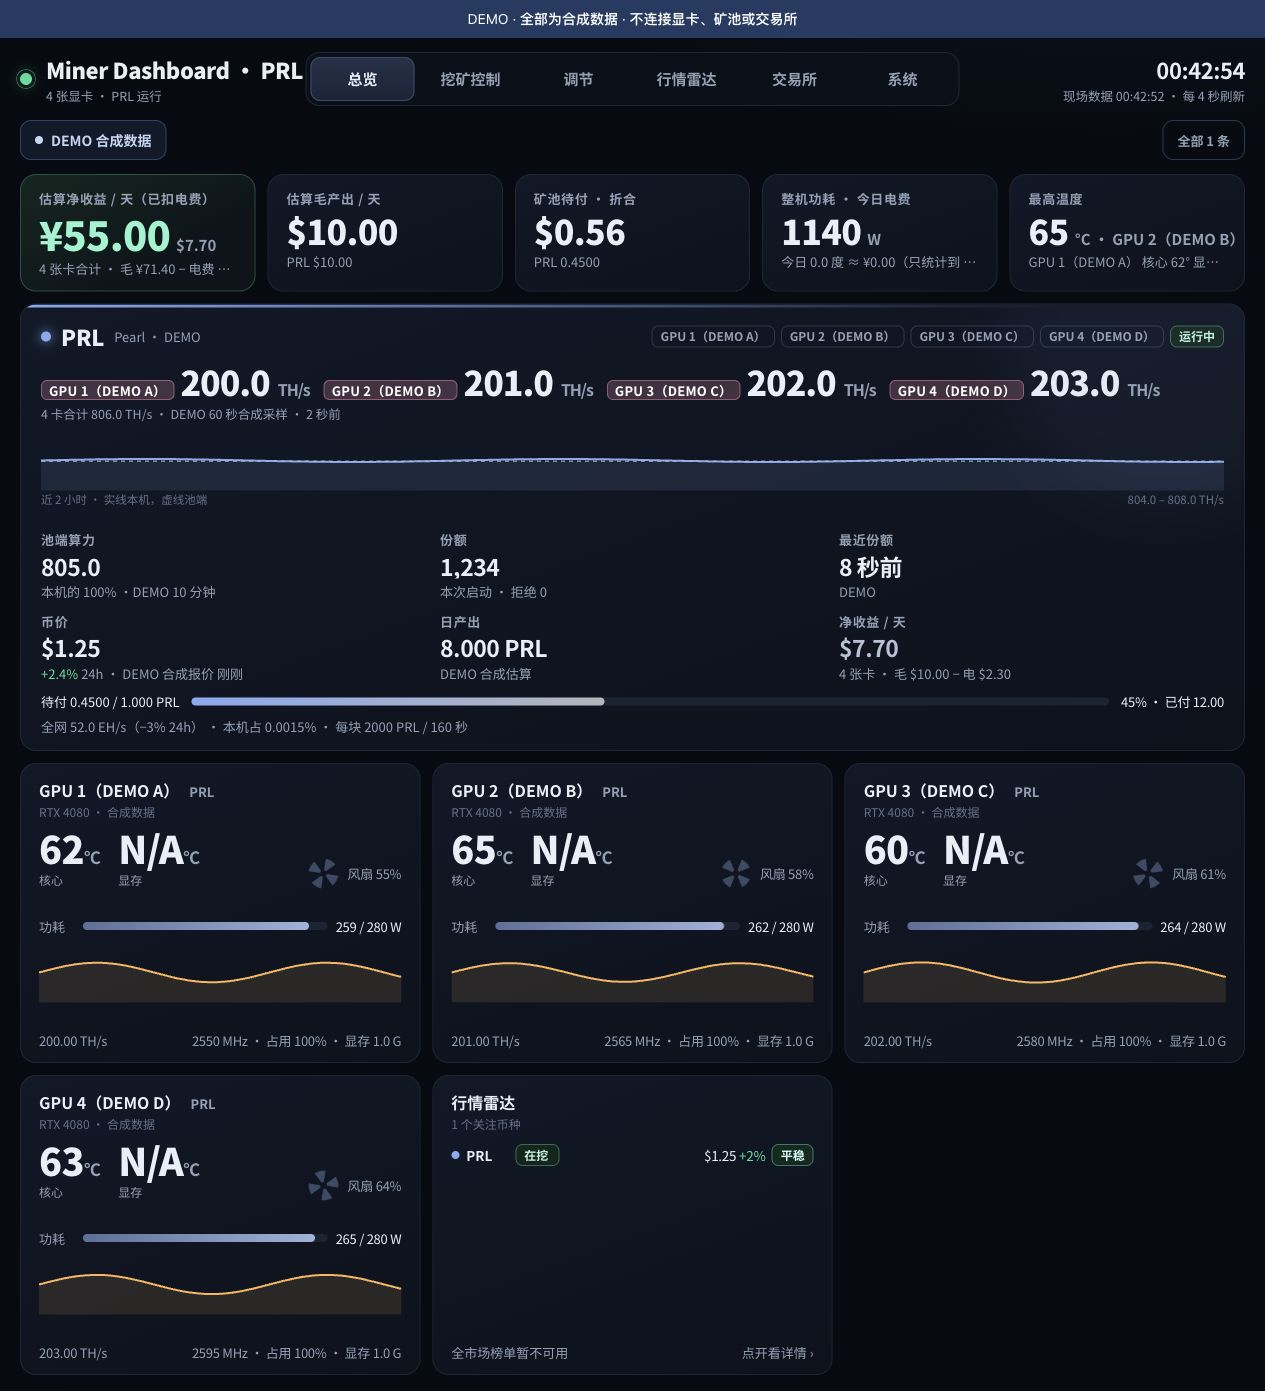
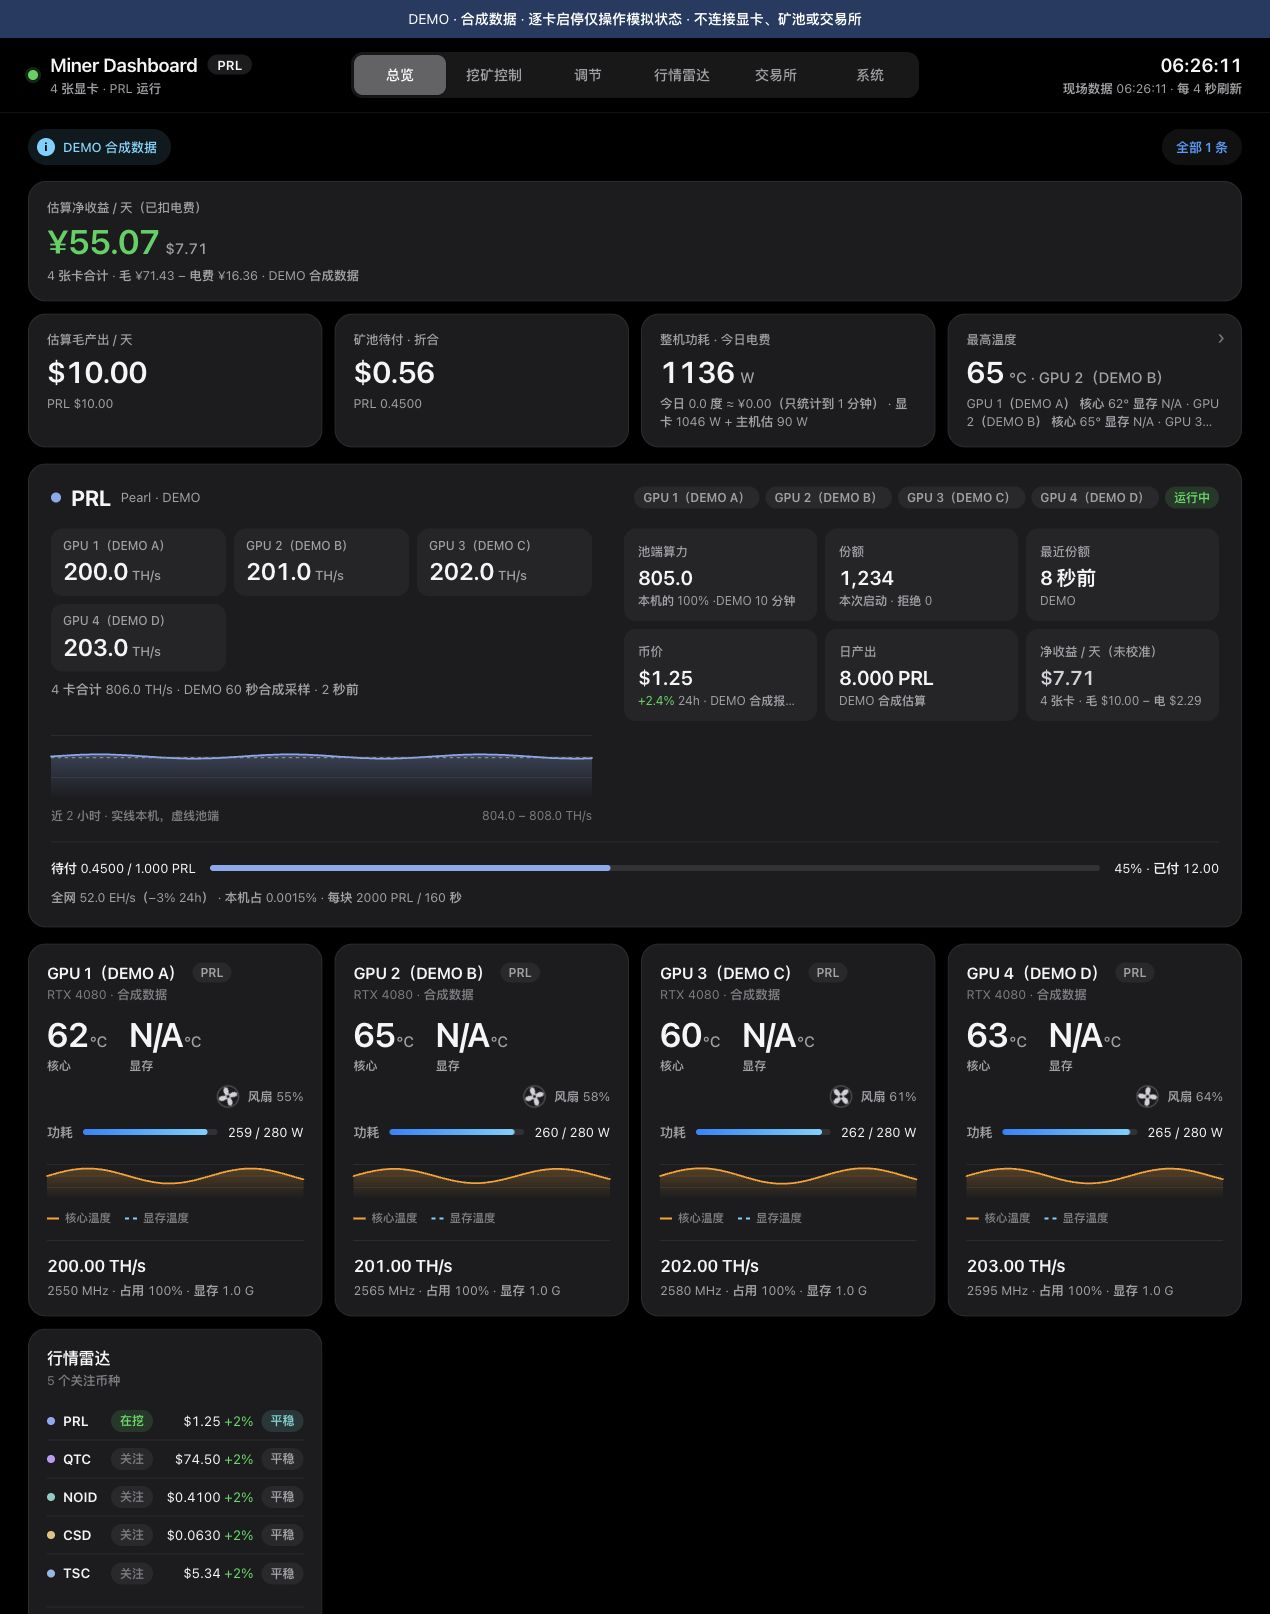
docs: refresh UI screenshots and setup guides

Changed region(s): [[0.0, 0.0, 1.0, 1.0]]

diff --git a/scripts/demo.py b/scripts/demo.py
@@ -2,7 +2,7 @@
 # SPDX-License-Identifier: GPL-3.0-only
 # Copyright (C) 2026 sergepoliakov
 """Synthetic, loopback-only demo. No miner, GPU, wallet or exchange is touched."""
-import argparse, json, math, os, sys, tempfile, time, subprocess, threading
+import argparse, copy, json, math, os, sys, tempfile, time, subprocess, threading
 from pathlib import Path
 from http.server import BaseHTTPRequestHandler, ThreadingHTTPServer
 # Set all paths BEFORE importing app modules. A demo never reads a real profile.
@@ -83,6 +83,14 @@ def snapshot():
                        gross_cny_per_day=gross/0.14,electricity_cny_per_day=electricity_cny,gpu_count=count,fx_cny_to_usd=.14,bases=['DEMO 合成数据'])
     p['network']={'hashrate':52e18,'hashrate_unit':'H/s','change_24h_pct':-3.2,'change_basis':'DEMO 较24小时前','yield_index':1.4e-14,'yield_index_change_24h_pct':5.5,'block_reward':2000,'block_seconds':160,'my_share_pct':0.00155,'source':'DEMO 合成全网','fetched_at':now,'noisy':False,'smoothed':False,'volatile':False}
     p['economics'].update(power_w=watts,net_cny_per_gpu_per_day=net/0.14/count if count else None,guide_cny_per_gpu_per_day=net/0.14/count if count else None,guide_usd_per_gpu_per_day=net/count if count else None,guide_basis='DEMO 合成值',missing=[])
+    d['market_projects']=[]
+    for symbol,name,price,color in [('QTC','Quantus',74.5,'#bf9af7'),('NOID','NOID',.41,'#80cbc4'),('CSD','Chain Solution',.063,'#e5c17b'),('TSC','TensorCash',5.34,'#8fb8ec')]:
+        item=copy.deepcopy(p)
+        item.update(symbol=symbol,name=name,active=False,watch_only=True,gpu_indices=[],devices=[],service='market-only',color=color,balance=None)
+        item['price'].update(value=price,source='DEMO 合成报价')
+        item['local'].update(total=None,gpu=None,per_gpu={},status='仅行情')
+        item['signal']={'level':'steady','label':'平稳','reasons':['DEMO 合成数据，不代表真实行情']}
+        d['market_projects'].append(item)
     d['exchange_enabled']=True
     d['exchange']={'public_api':{'state':'unavailable'},'diagnosis':'DEMO：未连接交易所；所有账户数据均为空，禁止真实下单。','trade_status':'停用','csrf_token':'demo-only','pairs':[],'trading_enabled':False}
     d['alerts']=[{'id':'demo','level':'info','title':'DEMO 合成数据','detail':'无显卡/钱包/交易所连接','since':now}]

diff --git a/README.md b/README.md
@@ -64,11 +64,15 @@ MINING_MONITOR_ALLOW_EMPTY_COINS=1 python3 app/mining_monitor.py
 
 ## 界面
 
+新版采用系统字体、深色分组卡片、独立图表和窄屏布局。以下五张截图均重新运行本仓库 DEMO 生成，行情、算力与收益都是合成数据；收款地址、使用者和 worker 输入保持空白。
+
 ![DEMO 每张显卡独立启动与停止](docs/images/control.jpg)
 
 ![DEMO 调节与 RGB 选择](docs/images/tuning.jpg)
 
 ![DEMO 行情雷达](docs/images/radar.jpg)
+
+![DEMO 矿池与收款：当前生效与草稿分开显示，地址为空](docs/images/wallets.jpg)
 
 页面为简体中文，支持窄屏布局。显卡显示名称与编号通过 UUID 绑定；数字编号与 NVIDIA 临时索引分开。
 
@@ -90,6 +94,7 @@ MINING_MONITOR_ALLOW_EMPTY_COINS=1 python3 app/mining_monitor.py
 - [安装 / 升级 / 卸载 / 重启验收](docs/INSTALL.md)
 - [配置、日志解析、GPU 固定顺序和矿池收款](docs/CONFIGURATION.md)
 - [远程 HTTPS 与 SSH](docs/REMOTE_ACCESS.md)
+- [钱包地址、矿工身份与收款适配器](docs/PAYOUTS.md)
 - [SafeTrade 账户绑定与交易边界](docs/EXCHANGE.md)
 - [RGB 支持与硬件配置](docs/RGB.md)
 - [架构与排错](docs/ARCHITECTURE.md)
@@ -105,7 +110,7 @@ python3 -m compileall -q app scripts
 
 ## English quick start
 
-A self-hosted Linux/NVIDIA mining dashboard with per-GPU telemetry, systemd miner control, optional power/clock restoration, a market radar, fixed-phase RGB color control, and a password-authenticated HTTPS gateway. Run `python3 scripts/demo.py` for an entirely synthetic, loopback-only demo with no dependencies beyond Python 3.11+. Per-GPU start/stop buttons alter simulated state only. See the Chinese deployment guides above. SafeTrade is optional and read-only by default; live trading is unverified. No miners, wallets, credentials, or private deployment history are bundled.
+A self-hosted Linux/NVIDIA mining dashboard with per-GPU telemetry, systemd miner control, optional power/clock restoration, a market radar, fixed-phase RGB color control, and a password-authenticated HTTPS gateway. Run `python3 scripts/demo.py` for an entirely synthetic, loopback-only demo with no dependencies beyond Python 3.11+. Per-GPU start/stop and payout drafts alter simulated state only. The refreshed UI includes five synthetic market entries and empty wallet fields. See the Chinese deployment guides above. SafeTrade is optional and read-only by default; live trading is unverified. No miners, wallets, credentials, or private deployment history are bundled.
 
 ## 许可证
 

diff --git a/docs/PER_GPU.md b/docs/PER_GPU.md
@@ -81,3 +81,11 @@ systemctl --user restart miner-dashboard.service
 - 配置失败：先停用本次生成的独立unit，再恢复原私有rig/coins配置和原共享unit的启动选择，reload并启动原矿工；绝不让新旧矿工同时抢卡。
 
 演示模式可实际点击逐卡按钮，但只改变隔离的合成状态，不启动硬件。仓库CI另用3个真实systemd服务、逐卡监督器和模拟矿工子进程，验证停/开一张卡时另外两个监督器及矿工PID均不变；NVIDIA库存/计算遥测为合成fixture，这项验证不冒充真实矿池份额或硬件冷启动。
+
+## 多币种的开机登记与健康检查
+
+自定义开机刷新/健康检查时，必须按每张卡保存的币种选择处理，不能把“非 STOP”全部解释成某一个币。刷新 GPU 身份只更新对应币种的 profile，保留同卡其他币种映射；不要重建整个 profiles 字典。
+
+健康检查只恢复**当前选中且已启用**的独立 unit；目标卡已被其他计算任务占用时不启动。注册 PRL 时，若保存的选择为 TSC，PRL 应保持 disabled/inactive，TSC 的启用状态与配置保持。STOP 要继续保持停止。逐卡切换后，再执行一次自己的刷新与健康检查，确认原币没有被后台拉起。
+
+这些维护脚本由部署者按实际服务配置。本仓库生成器默认拒绝覆盖已有配置，不会自动安装或替换未知的币种维护任务。

diff --git a/SECURITY.md b/SECURITY.md
@@ -14,7 +14,7 @@
 
 `python3 scripts/check_privacy.py` 检查常见私有路径、内网地址、GPU身份、密钥模式与运行文件。它不替代secret扫描器或人工审图。发布时还应使用 [Gitleaks](https://github.com/gitleaks/gitleaks) 对工作树与Git历史运行 `gitleaks dir . --redact`、`gitleaks git . --redact`；只查看不含原文的定位报告。
 
-.gitignore仅作辅助，显式force-add仍可提交敏感文件。不要复制自己的config、state、备份、原始日志、浏览器profile或钱包进入clone。新增示例要用合成数据，新图必须重跑DEMO。提交前核对 `git diff --cached` 和追踪文件列表。
+.gitignore仅作辅助，显式force-add仍可提交敏感文件。不要复制自己的config、state、备份、原始日志、浏览器profile或钱包进入clone。新增示例要用合成数据，新图必须重跑DEMO。提交前核对 `git diff --cached` 和追踪文件列表；发布包从显式允许的 Git 文件重新导出，不能把工作目录整体打包。宣传视频、真实截图及本机过程目录不属于源码发布。新截图取自本仓库独立 DEMO，账户字段保持空白，保留可见 DEMO 标记。
 
 ## 报告问题
 

diff --git a/docs/CONFIGURATION.md b/docs/CONFIGURATION.md
@@ -12,6 +12,7 @@
 | market-public.json | 仅关注、未在挖的币种行情（数组）；不需要钱包 |
 | active-gpus.json | 可选 excluded_gpu_uuids 与 exclusion_reasons；只影响显示，不切断供电 |
 | rgb.json | RGB enabled/color，程序原子保存；不可配置呼吸周期 |
+| mining-profiles.json | 可选收款适配器白名单，包含本机矿工字段/服务登记；私有600文件 |
 | web-auth.json | 密码哈希、会话签名随机量；私有600文件 |
 
 先运行 `configure.py init`。`discover` 会发现当前 GPU 并创建布局；已有布局会拒绝覆盖。手动编辑 number/name，将 UUID 对应到实际安装位置。不应凭风扇/卡号猜物理身份。插槽、卡序改变后重新核对 `nvidia-smi --query-gpu=index,uuid,name,pci.bus_id --format=csv`。新增卡需显式加入配置；没有自动认领任意卡的默认规则。

diff --git a/docs/PAYOUTS.md b/docs/PAYOUTS.md
@@ -2,6 +2,8 @@
 
 “挖矿控制 → 矿池与收款”按本机、按币种管理公开收款地址、worker、使用者和地址来源。PRL、QTC、NOID、CSD、TSC 都可保存草稿；实际应用需要维护者先登记本机矿工适配器。它不会安装矿工、创建钱包或代办交易所开户。
 
+![新版矿池与收款，所有账户输入为空的合成 DEMO](images/wallets.jpg)
+
 ## 使用方法
 
 1. 选择币种，填写自己持有的公开收款地址。钱包私钥、助记词、交易所密码和 API secret 均不填在这里。
